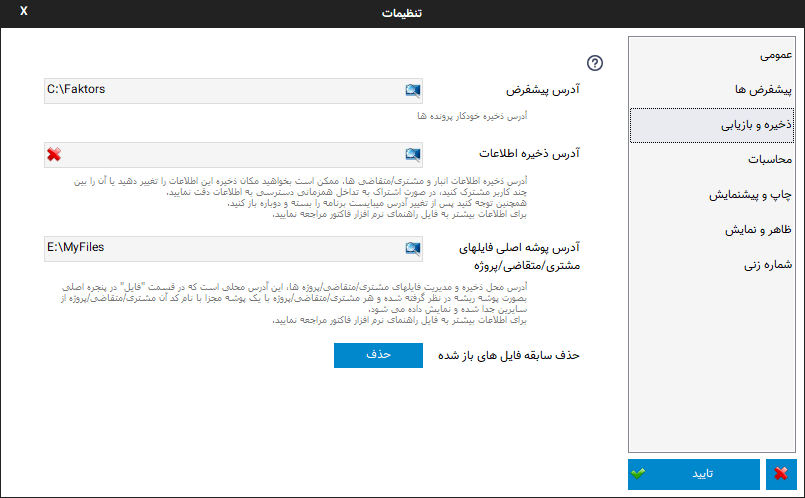
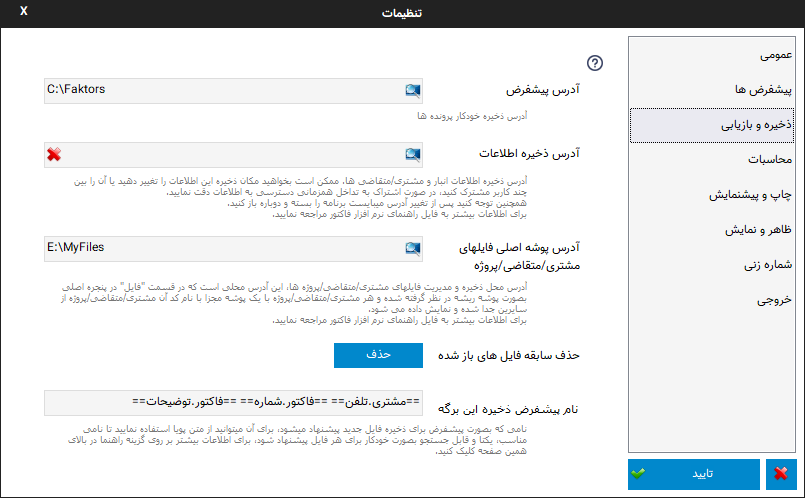
add v5.3 info

Changed region(s): [[0.0932, 0.7831, 0.7143, 0.9337], [0.9317, 0.6024, 0.9938, 0.6325]]

diff --git a/docs/source/window-main.rst b/docs/source/window-main.rst
@@ -380,3 +380,27 @@
 توجه کنید که در این حالت تمام محاسبات بر اساس موارد فیلتر شده خواهد بود.
 
 امکان دیگری در نرم افزار گنجانده شده است تا بتوانید برگه ای جدید از فیلتر های انجام شده ذخیره نمایید، در این نوع ذخیره فقط موارد فیلتر شده در فایل ذخیره می شوند. این گزینه در منوی اصلی برنامه با عنوان ":ref:`ذخیره فیلتر در...<menu-start>`" وجود دارد.
+
+
+.. _inlinecalc:
+
+|newflag| محاسبه درجای عبارت ریاضی
+--------------------------------------
+
+
+.. image:: images/inlinecalc.png
+    :alt: محاسبه درجای عبارت ریاضی
+    :align: center
+
+
+| توسط این قابلیت موانید در سلولهای جدول مستقیما یک عبارت ریاضی را بنویسید، نرم افزار فاکتور بدون آنکه آن را تبدیل به نتیجه کند در محاسبات از مقدار حساب شده آن عبارت استفاده میکند.
+| برای مثال در تصویر بالا برای ستونهای تعداد و مبلغ واحد عباراتی نوشته شده است که میتواند در کم کردن و ساده کردن بسیاری از محاسبات موثر باشد.
+
+| عملگرهای پشتیانی شده چهار عمل اصلی بعلاوه تقسیم صحیح و باقیمانده تقسیم میباشد که به شرح زیراند:
+
+* **جمع**. علامت آن همان کاراکتر "+" میباشد.
+* **تفریق**. علامت آن همان "-" میباشد.
+* **ضرب**: برای علامت آن علاوه بر کاراکتر "*" میتوانید از ایکس "x" هم استفاده نمایید.
+* **تقسیم**: علامت آن اسلش "/" میباشد.
+* **تقسیم صحیح**: علامت آن بک اسلش "\" میباشد که برای محاسبه نتیجه یک تقسیم بدون در نظر گرفتن اعشار در مقدار نهایی بکار میرود.
+* **باقیمانده تقسیم**: علامت آن "|" میباشد.

diff --git a/docs/source/window-settings.rst b/docs/source/window-settings.rst
@@ -73,6 +73,9 @@
 
 | |newflag| **حذف سابقه فایلهای باز شده :** برای پاک کردن لیست فایل های باز شده که در منوی اصلی و پنجره شروع نمایش داده می شوند میتوانید از این گزینه استفاده نمایید.
 
+| |newflag| **نام پیشفرض ذخیره برگه**: توسط این گزینه میتوانید نامی که بصورت پیشفرض در موقع ذخیره فایل برگه ها پیشنهاد میشود را تعیین کنید، این نام میتواند در یافتن آن برگه بسیار کارآمد باشد، پس نامی را انتخاب نمایید که برای هر برگه یکتا باشد و شامل اطلاعاتی باشد که برای جستجوی آن در آینده مفید است.
+| برای تنظیم این نام بهتر است از :ref:`متن پویا<dynamic-text>` استفاده نمایید.
+
 .. _setting-calc:
 
 محاسبات

diff --git a/docs/source/changes-log.rst b/docs/source/changes-log.rst
@@ -6,6 +6,17 @@
 تغییرات ویرایش ها
 ==========================
 
+**ویرایش 5.3**
+-------------------
+* اضافه شدن امکان وارد کردن مستقیم فرمول ریاضی در جدول. |template|
+* اضافه شدن امکان تعیین نام پیشفرض برای ذخیره فایل. |template|
+* اضافه شدن گزینه هایی برای تنظیم خروجی csv. |template|
+* اضافه شدن دسترسی به کادر توضیحات و جمع نهایی به متن پویا. |template|
+* بهبود جستجو در انبار. |template|
+* اصلاح برخی موارد در گزارش انبار. |template|
+* اصلاح گزینه حذف سابقه فایلهای باز شده. |template|
+
+
 **ویرایش 5.2**
 -------------------
 * اضافه شدن امکان الحاق الگو به برگه باز شده. |template|

diff --git a/docs/source/advanced.rst b/docs/source/advanced.rst
@@ -107,6 +107,15 @@
    * - شماره
      - شماره
      - 1396-02-456
+   * - توضیحات
+     - مقدار کادر توضیحات
+     - از انتخاب شما متشکریم
+   * - جمع
+     - مقدار مبلغ قابل پرداخت
+     - 50000
+   * - جمع متنی
+     - مقدار مبلغ قابل پرداخت بصورت متنی
+     - پنجاه هزار ریال
    * - زمان
      - ساعت و دقیقه کنونی
      - 14:30
